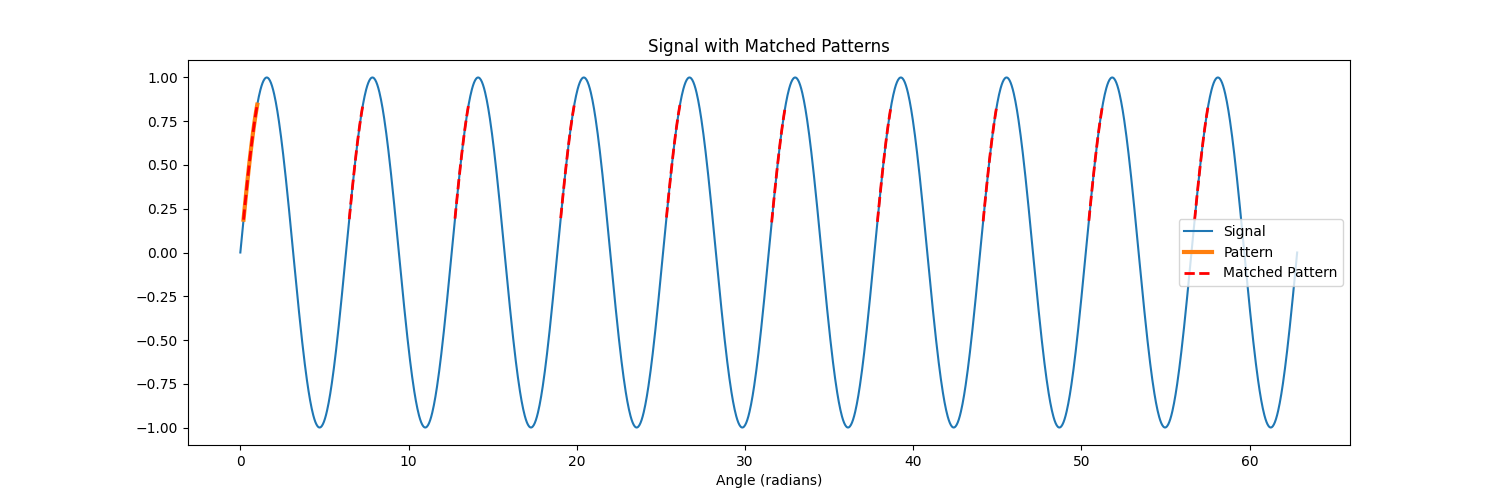
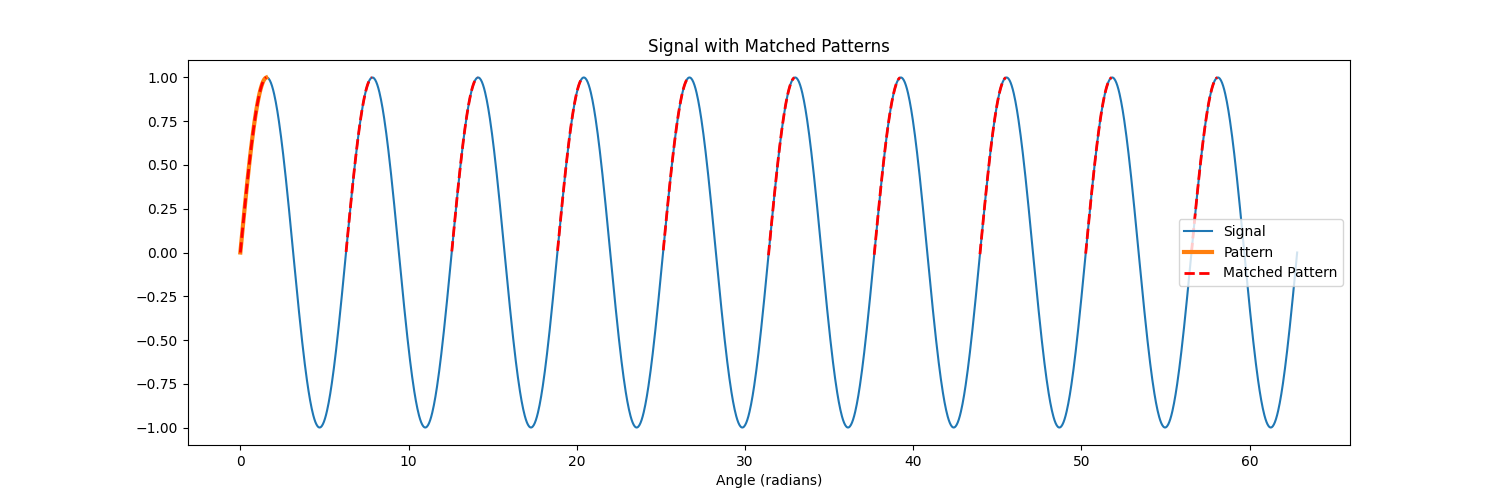
Refactor command-line interface to accept start and end points for pattern selection; update documentation and tasks accordingly

Changed region(s): [[0.1533, 0.45, 0.184, 0.51], [0.1533, 0.15, 0.184, 0.21]]

diff --git a/main.py b/main.py
@@ -1,36 +1,60 @@
 from src.signal_generator import generate_sine_wave
-from src.ui import SignalSelector
 from src.convolution import normalized_cross_correlation
 from src.pattern_matching import find_pattern_locations
 from src.visualization import plot_results, plot_convolution, show_plots
+import argparse
+import numpy as np
 
 def main():
+    parser = argparse.ArgumentParser(description="1D Signal Simulation and Convolution Analysis")
+    parser.add_argument("--start_point", type=float, required=True,
+                        help="Start point (in radians) of the pattern within a single sine wave cycle (0 to 2*pi).")
+    parser.add_argument("--end_point", type=float, required=True,
+                        help="End point (in radians) of the pattern within a single sine wave cycle (0 to 2*pi).")
+    args = parser.parse_args()
+
     # Generate the signal
     x, signal = generate_sine_wave()
 
-    # Let the user select a segment
-    selector = SignalSelector(x, signal)
-    start_index, end_index = selector.get_selected_indices()
-    
-    if start_index is not None and end_index is not None:
-        kernel = signal[start_index:end_index]
-        kernel_x = x[start_index:end_index]
+    # Validate input points
+    if not (0 <= args.start_point < args.end_point <= 2 * np.pi):
+        print("Error: start_point and end_point must be within 0 and 2*pi, and start_point must be less than end_point.")
+        return
 
-        if len(kernel) > 0:
-            # Perform convolution
-            correlation = normalized_cross_correlation(signal, kernel)
+    # Find the indices corresponding to the start and end points within the first cycle
+    # Assuming x is generated from 0 to 10 * 2 * pi, and we want to select from the first cycle.
+    # The signal_generator generates 200 samples per cycle.
+    samples_per_cycle = 200
+    total_samples = len(x)
+    samples_in_first_cycle = x[:samples_per_cycle]
 
-            # Find matched patterns
-            matches = find_pattern_locations(correlation)
+    start_index_in_cycle = np.argmin(np.abs(samples_in_first_cycle - args.start_point))
+    end_index_in_cycle = np.argmin(np.abs(samples_in_first_cycle - args.end_point))
 
-            # Visualize the results
-            plot_results(x, signal, kernel_x, kernel, matches)
-            plot_convolution(x, correlation)
+    # Extract the kernel from the first cycle of the signal
+    kernel = signal[start_index_in_cycle:end_index_in_cycle]
+    kernel_x = x[start_index_in_cycle:end_index_in_cycle]
 
-            # Show the plots
-            show_plots()
-    else:
-        print("No segment selected or segment is empty.")
+    if len(kernel) == 0:
+        print("Error: Selected pattern is empty. Adjust start_point and end_point.")
+        return
+
+    # Perform convolution
+    correlation = normalized_cross_correlation(signal, kernel)
+
+    # Find matched patterns
+    matches = find_pattern_locations(correlation)
+
+    # Visualize the results
+    plot_results(x, signal, kernel_x, kernel, matches)
+    plot_convolution(x, correlation)
+
+    # Print convolution result to console
+    print("Convolution Result:")
+    print(correlation)
+
+    # Show the plots
+    # show_plots()
 
 if __name__ == "__main__":
     main()

diff --git a/docs/prd.md b/docs/prd.md
@@ -21,22 +21,18 @@ This program is intended for general educational purposes and is not tailored to
 ## 5. Features and Functionality
 
 *   **Signal Generation:** The program will generate a 1D signal based on a sine function. The parameters of the sine wave (frequency, amplitude, phase) will be fixed.
-*   **Pattern Selection:** The user will provide a segment of the generated signal as a command-line argument. This selected segment will be used as the pattern to search for in the signal.
+*   **Pattern Selection:** The user will provide `start_point` and `end_point` (in radians) as command-line arguments to define a segment of the generated sine wave signal. This selected segment will be used as the pattern to search for in the signal.
 *   **Convolution:** The program will perform a normalized cross-correlation between the entire signal and the selected pattern (kernel) to ensure the result peaks when the pattern is matched.
 *   **Pattern Matching:** The output of the convolution will be used to identify all the locations where the pattern appears in the signal by finding the peaks in the correlation result.
-*   **Visualization:**
-    *   The original signal, the selected pattern (kernel), and the identified matching patterns will be displayed together in one plot. The x-axis of the plot will represent the angle of the sine wave in radians.
-    *   The result of the convolution operation will be displayed in a separate plot, with the x-axis representing the angle in radians.
+*   **Visualization:** The original signal, the selected pattern (kernel), and the identified matching patterns will be saved together in one plot image. The result of the convolution operation will be saved in a separate plot image. The x-axis of both plots will represent the angle of the sine wave in radians.
 *   **Output:** The program will generate and save two separate image files: `signal_and_matches.png` and `convolution_result.png`. Additionally, the convolution result will be printed to the console.
 
 ## 6. User Flow
 
-1.  The program starts, taking a segment of the generated sine wave signal as a command-line argument to be used as the convolution kernel.
+1.  The program starts, taking `start_point` and `end_point` (in radians) as command-line arguments to define the convolution kernel from the generated sine wave signal.
 2.  The program automatically performs the convolution and identifies matching patterns.
 3.  The program automatically performs the convolution and identifies matching patterns.
-4.  The program displays the visualizations in separate windows:
-    *   A plot showing the original signal, the selected segment, and the matching patterns.
-    *   A separate plot showing the convolution result.
+4.  The program saves the visualizations as `signal_and_matches.png` and `convolution_result.png`.
 5.  The program saves the two plots as `signal_and_matches.png` and `convolution_result.png`.
 6.  The program prints the convolution result to the console.
 

diff --git a/docs/tasks.md b/docs/tasks.md
@@ -2,15 +2,14 @@
 
 ## 1. Project Setup
 - [ ] Choose and install necessary libraries for numerical computation (e.g., NumPy) and plotting (e.g., Matplotlib or Plotly).
+- [ ] Configure uv Virtual Environment
 
 ## 2. Signal Generation
 - [ ] Implement a function to generate the sine wave signal based on the specified parameters (10 cycles, 200 samples per cycle).
 - [ ] Write unit tests to verify the correctness of the signal generation.
 
-## 3. User Interface (UI)
-- [ ] Create a basic UI to display the generated signal.
-- [ ] Implement the functionality for the user to select a segment of the signal.
-- [ ] Ensure the selection mechanism snaps to the discrete sample points of the signal.
+## 3. Input Handling
+- [ ] Implement functionality to parse the start and end points (in radians) provided as command-line arguments to define the pattern segment.
 
 ## 4. Convolution
 - [ ] Implement the convolution operation between the signal and the selected segment (kernel).
@@ -24,13 +23,16 @@
 ## 6. Visualization
 - [ ] Implement the visualization of the original signal, the selected pattern, and the highlighted matched patterns in a single plot.
 - [ ] Implement the visualization of the convolution result in a separate plot.
-- [ ] Add a feature to save the visualizations as an image file (e.g., PNG).
 
-## 7. Main Application
+## 7. Output
+- [ ] Implement Image Save: Add a feature to save the visualizations as an image file (e.g., PNG).
+- [ ] Print Convolution Result to Console: Implement functionality to print the convolution result to the console.
+
+## 8. Main Application
 - [ ] Integrate all the components into a single application.
-- [ ] Implement the main user flow: display signal, select segment, perform convolution, and display results.
+- [ ] Implement the main user flow: generate signal, parse pattern argument, perform convolution, save images, and print result to console.
 
-## 8. Documentation and Refinements
+## 9. Documentation and Refinements
 - [ ] Add comments and documentation to the code.
-- [ ] Refine the UI and visualizations for clarity and ease of use.
+- [ ] Refine the visualizations for clarity and ease of use.
 - [ ] Create a `README.md` file with instructions on how to run the program.

diff --git a/README.md b/README.md
@@ -50,10 +50,10 @@ This project is a Python application that demonstrates the use of 1D convolution
 
 ## Usage
 
-To run the program, execute the following command in your terminal, providing the pattern as a comma-separated string of numbers:
+To run the program, execute the following command in your terminal, providing the start and end points (in radians) of the pattern within a single sine wave cycle:
 
 ```bash
-python main.py --pattern "0.5,0.8,1.0,0.8,0.5"
+python main.py --start_point 0.0 --end_point 1.57
 ```
 
 ## Dependencies
